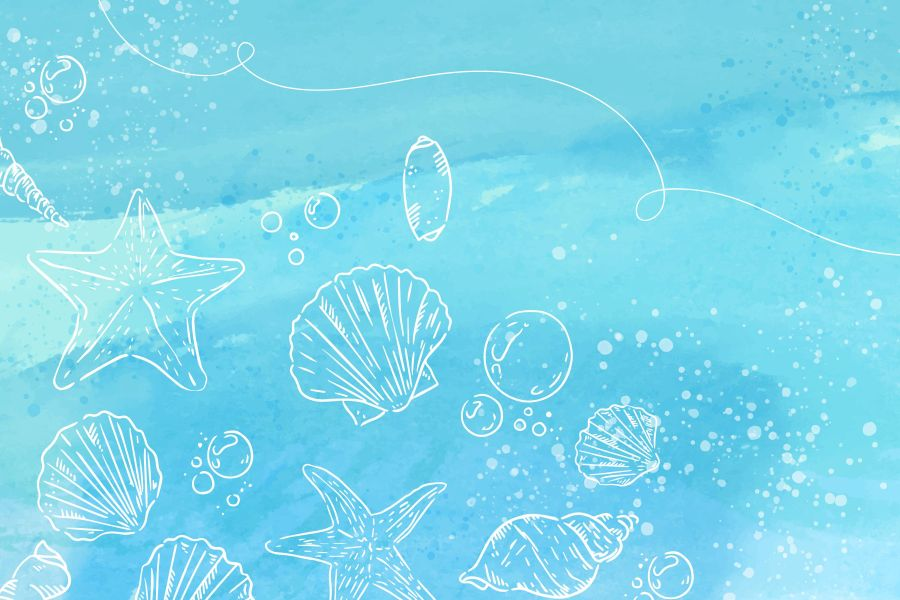
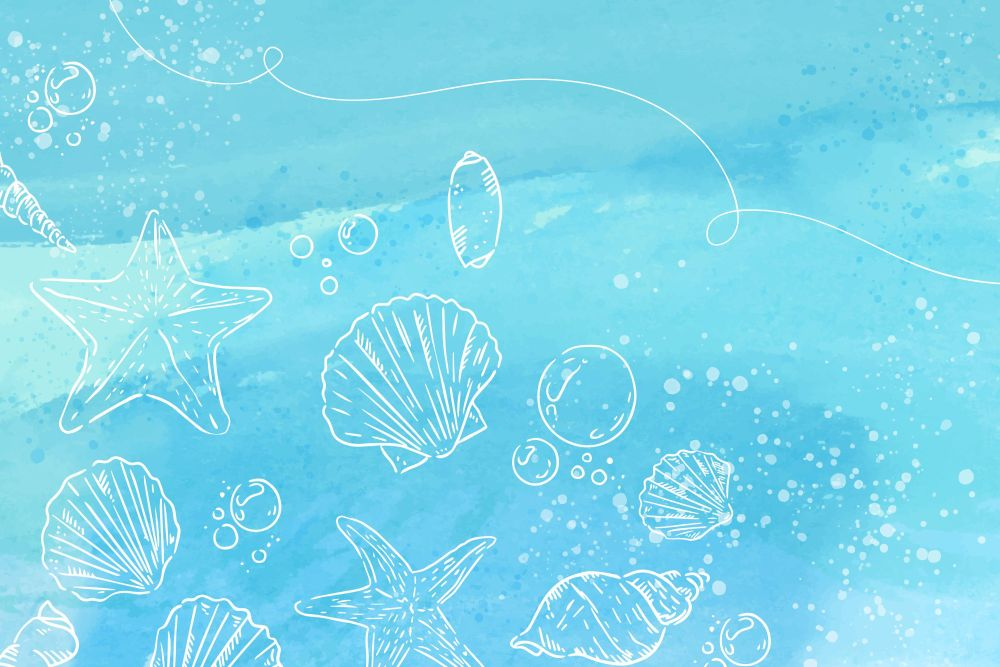
Add files via upload

diff --git a/webdevA2/style.css b/webdevA2/style.css
@@ -15,7 +15,7 @@ body {
     margin: 0;
     display: flex;
     flex-direction: column;
-    background-image: url("../webdevA2/images/ocean.jpg");
+    background-image: url("../webdevA2/images/smallocean.jpg");
     background-size: cover;
     background-position: center;
     background-repeat: no-repeat;
@@ -49,13 +49,19 @@ nav ul li {
 }
 
 #fullscreenBtn {
-    display: block;      /* make it block to respect margins */
-    margin: 0 auto;      /* horizontally center */
+    display: block;
+    /* make it block to respect margins */
+    margin: 0 auto;
+    /* horizontally center */
 }
+
 #exitFullscreenBtn {
-    display: block;      /* make it block to respect margins */
-    margin: 0 auto;      /* horizontally center */
+    display: block;
+    /* make it block to respect margins */
+    margin: 0 auto;
+    /* horizontally center */
 }
+
 /*quiz*/
 button {
     padding: 10px 10px 10px 10px;
@@ -108,7 +114,8 @@ label:hover {
 }
 
 legend {
-  cursor: default; /* changes from pointer to regular arrow */
+    cursor: default;
+    /* changes from pointer to regular arrow */
 }
 
 #btnComplete:hover {
@@ -213,7 +220,7 @@ h3 {
     justify-content: center;
 }
 
-#gameScore{
+#gameScore {
     padding: 1em 2em;
     text-align: center;
     width: fit-content;
@@ -229,7 +236,8 @@ h3 {
 }
 
 #quiz {
-    background-color: rgba(94, 186, 216, 0.7);;
+    background-color: rgba(94, 186, 216, 0.7);
+    ;
 }
 
 /* --- MOBILE VIEW --- */
@@ -281,5 +289,25 @@ h3 {
 
     nav ul li button:hover {
         background-color: #555;
+    }
+
+    #gameArea {
+        width: 250px;
+        height: 250px;
+        border: 3px solid #000;
+        margin: 0 auto;
+        position: relative;
+        background-color: #2d70cf;
+    }
+}
+
+.qr-code {
+    display: block;
+}
+
+/* Hide on screens smaller than 800px*/
+@media (max-width: 800px) {
+    .qrCode {
+        display: none;
     }
 }

diff --git a/webdevA2/main.js b/webdevA2/main.js
@@ -67,14 +67,17 @@ function CheckAns() {
 btnComplete.addEventListener("click", CheckAns); // button to call function
 
 const whale = document.getElementById("whale");
-const gameAreaSize = 500;  // width and height of #gameArea
-const whaleSize = 100;     // size of the image
 const soundEffect = new Audio("../webdevA2/audio/yippee.mp3");
 let score = 0;
 
 function moveWhale() {
-    const maxX = gameAreaSize - whaleSize;
-    const maxY = gameAreaSize - whaleSize;
+    const gameArea = document.getElementById("gameArea");
+    const rect = gameArea.getBoundingClientRect(); // Get actual size
+    const whaleWidth = whale.offsetWidth;
+    const whaleHeight = whale.offsetHeight;
+
+    const maxX = rect.width - whaleWidth;
+    const maxY = rect.height - whaleHeight;
 
     const x = Math.random() * maxX;
     const y = Math.random() * maxY;

diff --git a/webdevA2/index.html b/webdevA2/index.html
@@ -186,7 +186,11 @@
             <a href="https://whc.unesco.org/en/list/1186/" target="_blank" rel="noopener noreferrer">UNESCO</a>
             <a href="https://www.worldwildlife.org/species/whale" target="_blank" rel="noopener noreferrer">World
                 Wildlife</a>
-            <h2>Hamburger menu credit by Lizel Arina from flaticon</h2>
+            <a href="https://www.flaticon.com/free-icon/hamburger_7710488?term=hamburger&page=1&position=2&origin=tag"
+                target="_blank" rel="noopener noreferrer">Hamburger menu credit by Lizel Arina from flaticon</a>
+            <div class="qrCode">
+                <img src="images/qrcode.png" alt="QR Code">
+            </div>
             <h2>02_WooSzeQing_253266U_A2</h2>
         </div>
     </footer>
